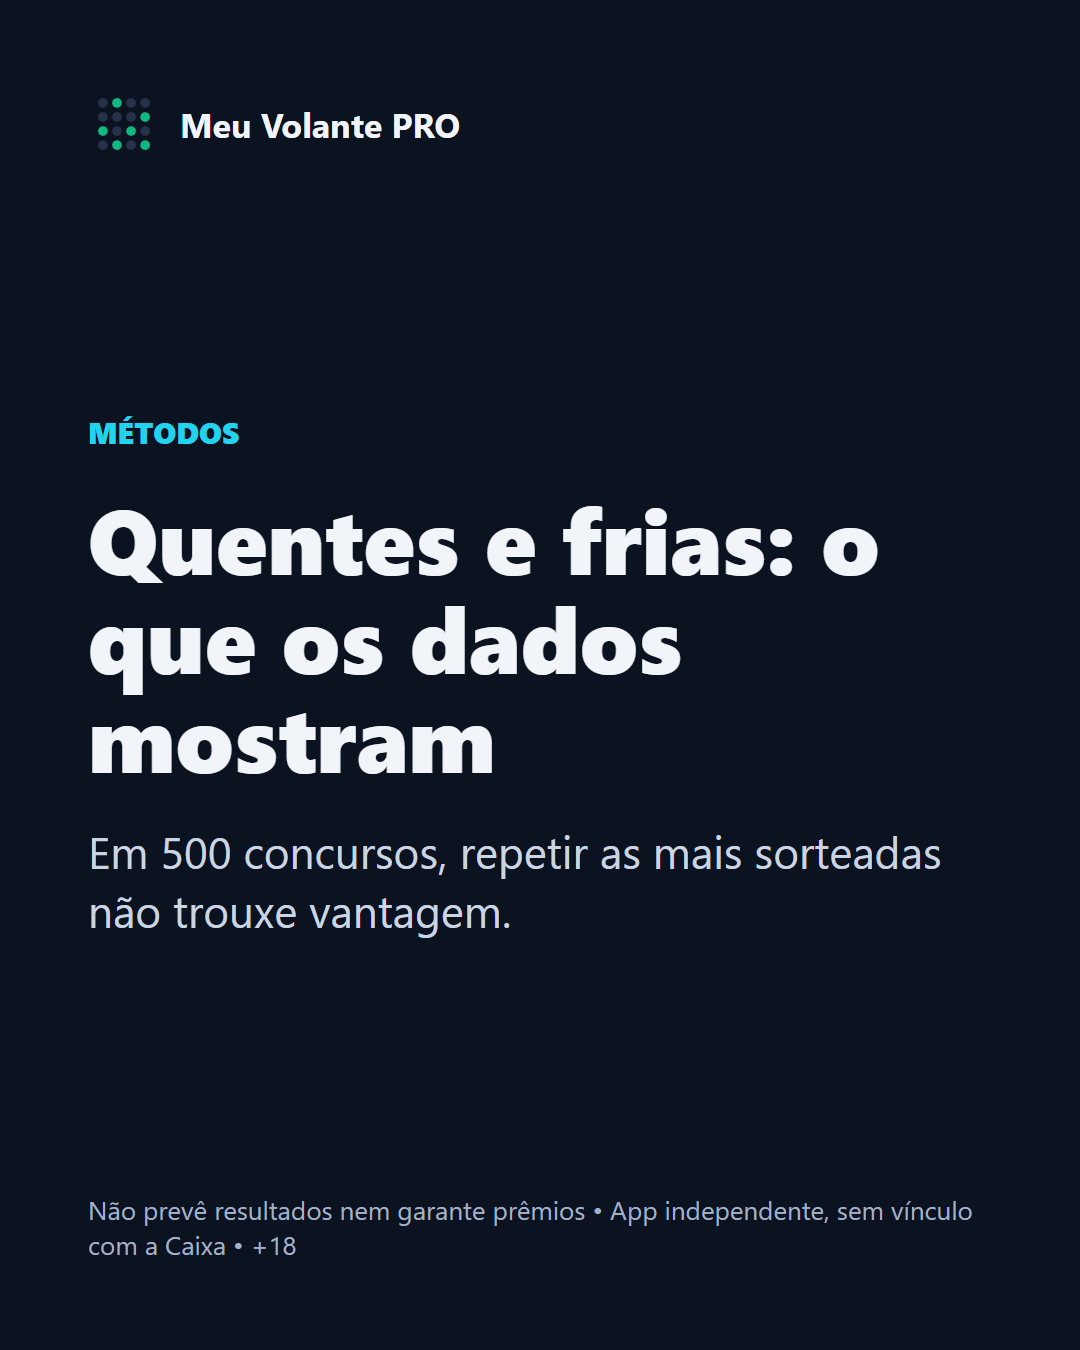
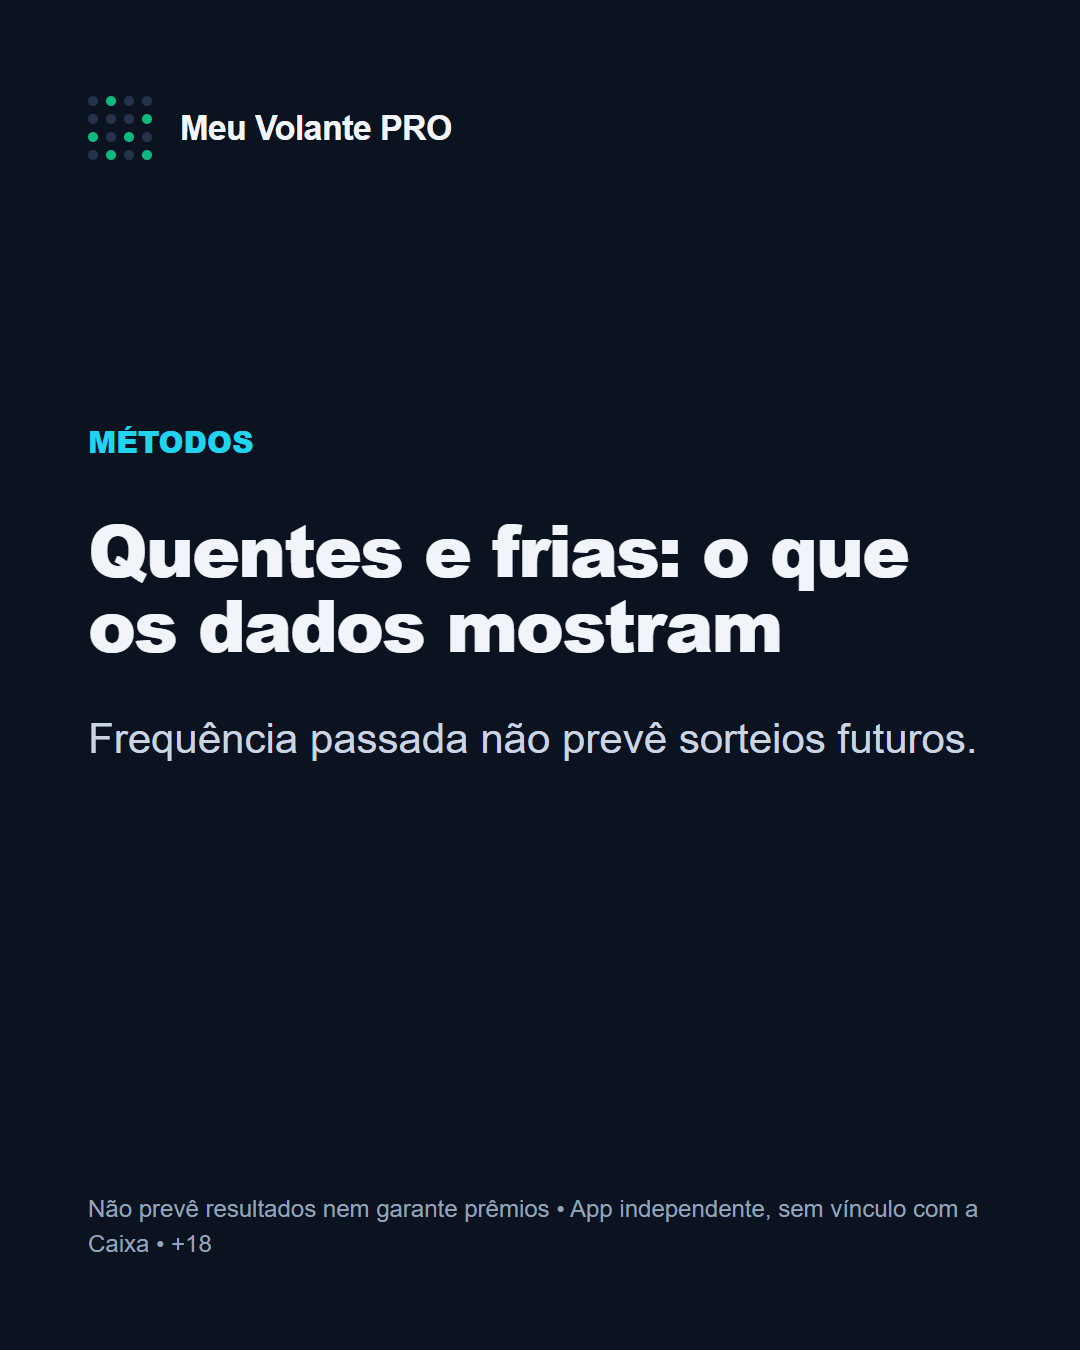
docs: prepare Instagram VIP coupon campaign

diff --git a/marketing/instagram/legendas.md b/marketing/instagram/legendas.md
@@ -1,38 +1,77 @@
+# Legendas e hashtags para Instagram
+
+## Oferta por Direct: 1 ano de acesso VIP
+**Legenda para publicar:** Quer 1 ano de acesso VIP? Mande **“VIP”** no Direct para receber seu código. São até 100 resgates, um por aparelho; cada acesso vale 365 dias após a ativação. O app não prevê resultados nem garante prêmios. +18
+
+**Hashtags:** #MeuVolantePRO #VIP #MegaSena #Lotofacil #JogoResponsavel #Loterias
+
+**Resposta privada para enviar no Direct:** Seu código é **INSTAVIP100**. Ative por este link: https://loterias.pd.dev.br/?vip=INSTAVIP100. São até 100 resgates, um por aparelho; o acesso vale 365 dias após a ativação. Não publique o código.
+
+**Antes de divulgar:** execute `supabase/RODAR-CUPOM-INSTAGRAM.sql` no SQL Editor do Supabase. O limite é de 100 aparelhos, não de 100 pessoas verificadas.
+
 ## Dia 1: Jogue com ciência, não no achismo
-O Meu Volante PRO ajuda você a entender cada jogo de Mega-Sena e Lotofácil. Não prevê resultados nem garante prêmios. Link na bio. +18
+O Meu Volante PRO reúne cálculo de chances, custo, organização de jogos e conferência. As estatísticas descrevem o passado — não preveem o próximo sorteio nem aumentam suas chances. Conheça pelo link na bio. +18
+
+Quer 1 ano de acesso VIP? Mande “VIP” no Direct para receber seu código. São até 100 resgates, um por aparelho; cada acesso vale 365 dias após a ativação. O app não prevê resultados nem garante prêmios. +18
+
+**Hashtags:** #MeuVolantePRO #MegaSena #Lotofacil #Estatistica #JogoResponsavel #Loterias
 
 ## Dia 3: 1 em 50.063.860
-São 50.063.860 combinações possíveis de 6 dezenas entre 60. Saber esse número é o primeiro passo para jogar com consciência. +18
+São 50.063.860 combinações possíveis de 6 dezenas entre 60. Saber esse número é um passo para jogar com consciência. +18
+
+**Hashtags:** #MeuVolantePRO #MegaSena #Matematica #Probabilidade #JogoResponsavel #Loterias
 
 ## Dia 5: Por que evitar só números até 31
-Muita gente joga datas. Espalhar as dezenas não aumenta sua chance, mas pode reduzir a divisão se você ganhar. +18
+Muita gente escolhe datas. Padrões populares podem aumentar a chance de dividir o prêmio se você ganhar; não mudam a chance de acertar. +18
+
+**Hashtags:** #MeuVolantePRO #MegaSena #Probabilidade #Curiosidades #JogoResponsavel #Loterias
 
 ## Dia 8: Dezena atrasada tem mais chance?
-O histórico mostra o que saiu, mas não muda a chance do próximo concurso. +18
+Não. O histórico mostra o que saiu, mas cada sorteio é independente. Uma dezena atrasada não ganha vantagem no próximo concurso. +18
+
+**Hashtags:** #MeuVolantePRO #MegaSena #Lotofacil #MitosDasLoterias #Estatistica #JogoResponsavel
 
 ## Dia 10: Como funciona a Matriz 4x4
-Em segundos, você vê se o jogo está concentrado ou espalhado. É uma forma de enxergar o jogo, não de prever o sorteio. +18
+Em segundos, você vê como as dezenas se distribuem pelo volante. É uma forma de visualizar o jogo, não de prever o sorteio. +18
+
+**Hashtags:** #MeuVolantePRO #Matriz4x4 #MegaSena #Lotofacil #Estatistica #JogoResponsavel
 
 ## Dia 12: 7 dezenas = 7 apostas
-Um jogo de 7 dezenas custa 7 vezes a aposta simples, e a chance da sena sobe na mesma proporção: 1 em 7.151.980. Confira o preço vigente antes de jogar. +18
+Na Mega-Sena, um jogo com 7 dezenas corresponde a 7 combinações simples: a chance da sena passa a 1 em 7.151.980, e o custo sobe na mesma proporção. Confira o preço vigente antes de jogar. +18
+
+**Hashtags:** #MeuVolantePRO #MegaSena #Matematica #Probabilidade #JogoResponsavel #Loterias
 
 ## Dia 15: Quanto você gastou neste ano?
-Jogar deve caber no seu orçamento. Escolha um valor que não fará falta. +18
+Registre seus jogos e acompanhe o custo estimado. Defina um limite mensal; o app sinaliza quando o próximo jogo ultrapassa esse valor. Jogue só com um valor que não fará falta. +18
+
+**Hashtags:** #MeuVolantePRO #JogoResponsavel #ControleFinanceiro #Orcamento #MegaSena #Lotofacil
 
 ## Dia 17: Os 6 indicadores do seu jogo
-Eles descrevem a combinação e mostram se ela está na faixa comum. Nenhum deles muda a chance de sair. +18
+Os indicadores descrevem a combinação e mostram como ela se compara a faixas comuns. Nenhum deles muda a chance de sair. +18
+
+**Hashtags:** #MeuVolantePRO #Estatistica #MegaSena #Lotofacil #Probabilidade #JogoResponsavel
 
 ## Dia 19: 1-2-3-4-5-6 pode sair?
-Parece estranho, mas cada combinação tem a mesma probabilidade. A diferença é quantas pessoas escolhem aquele jogo. +18
+Sim. Cada combinação simples tem a mesma probabilidade, inclusive 1-2-3-4-5-6. O que pode variar é quantas pessoas escolheram a mesma combinação. +18
+
+**Hashtags:** #MeuVolantePRO #MegaSena #Matematica #Probabilidade #MitosDasLoterias #JogoResponsavel
 
 ## Dia 22: Fechamento: o que ele cobre
-Um fechamento organiza as dezenas que você escolheu. Ele não garante prêmio e cobre menos que o jogo completo. +18
+Um fechamento organiza as dezenas que você escolheu. Ele não garante prêmio e não cobre todas as combinações possíveis. Confira o custo antes de jogar. +18
+
+**Hashtags:** #MeuVolantePRO #Fechamento #Bolao #MegaSena #Lotofacil #JogoResponsavel
 
 ## Dia 24: Confira sem sair de casa
-Confirme sempre resultados e prêmios nos canais oficiais da Caixa. App independente, sem vínculo com a Caixa. +18
+Use o app para organizar seus jogos e conferir resultados. Para confirmar dezenas e prêmios, consulte sempre os canais oficiais da Caixa. App independente, sem vínculo com a Caixa. +18
+
+**Hashtags:** #MeuVolantePRO #ResultadosOficiais #MegaSena #Lotofacil #Loterias #JogoResponsavel
 
 ## Dia 26: Quentes e frias: o que os dados mostram
-No nosso teste com concursos oficiais, jogar as dezenas quentes ou frias acertou como o esperado pelo acaso. Elas contam a história, não o futuro. +18
+As dezenas mais sorteadas ou mais atrasadas descrevem concursos anteriores. Como cada sorteio é independente, isso não prevê o próximo resultado nem dá vantagem a uma dezena. +18
+
+**Hashtags:** #MeuVolantePRO #Estatistica #MegaSena #Lotofacil #MitosDasLoterias #JogoResponsavel
 
 ## Dia 29: Hora de dar uma pausa?
-Jogo é diversão. Se deixou de ser, converse com alguém de confiança ou com um profissional. +18
+Jogo é diversão, não uma obrigação. Se estiver afetando seu sono ou orçamento, faça uma pausa e converse com alguém de confiança ou com um profissional. +18
+
+**Hashtags:** #MeuVolantePRO #JogoResponsavel #AposteComConsciencia #SaudeMental #Loterias #18Mais
